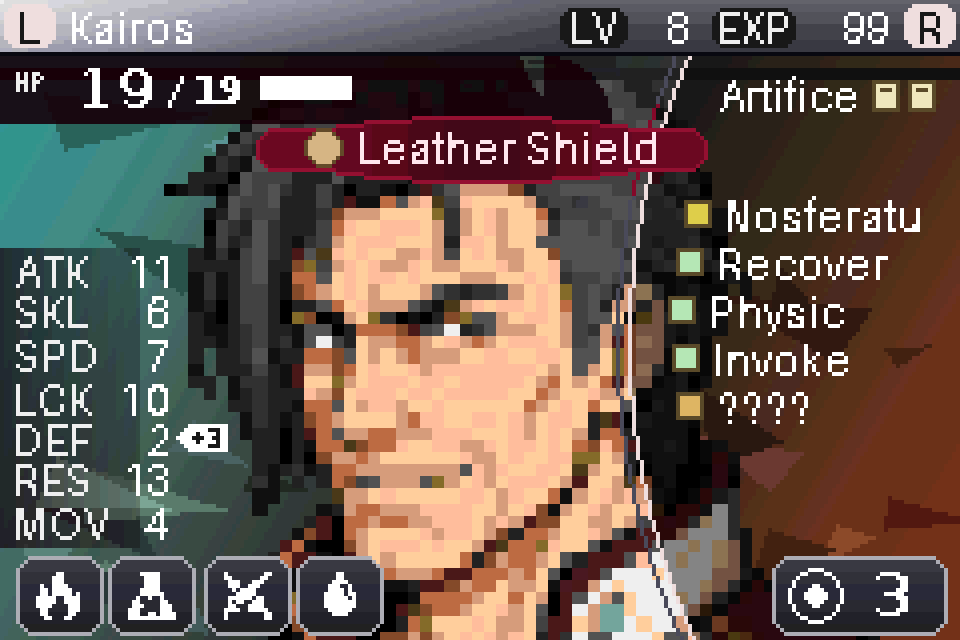
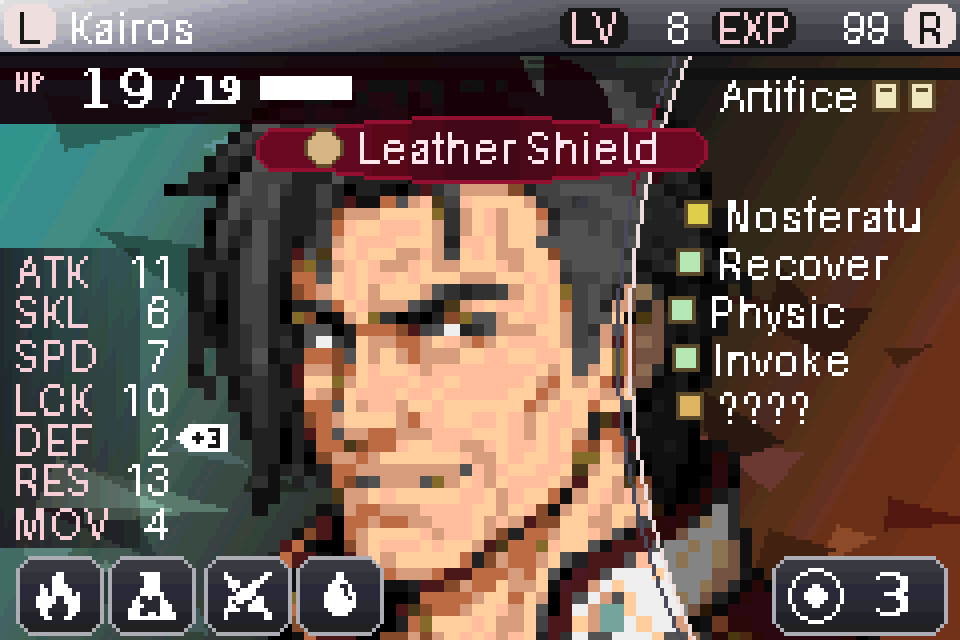
Recoloreo conserva el color original de etiquetas y texto del arma
Claude-Session: https://claude.ai/code/session_01C4QAM7MwvCQVjJLG12SBSt

diff --git a/gba_status/recolorear.py b/gba_status/recolorear.py
@@ -10,6 +10,7 @@ run(); run(SIN_RETRATO="1", SIN_ICONOS="1"); run(FONDO="negro")
 full = Image.open(f"estado_gba{sf}.png").convert("RGB"); ui = Image.open(f"estado_gba_sin_retrato_sin_iconos{sf}.png").convert("RGB")
 negro = Image.open("estado_gba_negro.png").convert("RGB")  # para saber que pixeles dependen del fondo
 W, H = full.size
+TEXTOS_FIJOS = {(247, 206, 214), (255, 231, 239)}  # etiquetas (HP, ATK, LV...) y texto del arma
 q5 = lambda v: (int(v) >> 3) << 3 | (int(v) >> 5)
 lum = lambda p: (p[0] * 299 + p[1] * 587 + p[2] * 114) / 1000
 uis = [ui.getpixel((x, y)) for y in range(H) for x in range(W)]
@@ -26,7 +27,7 @@ for nombre in (sys.argv[1:] or TEMAS):
                 p, u = full.getpixel((x, y)), ui.getpixel((x, y))
                 if p != u: continue                       # retrato o icono: no se toca
                 if FONDO != "luz" and p != negro.getpixel((x, y)): continue  # fondo o translucido: se deja
-                if min(p) > 200 and max(p) - min(p) < 40: continue  # blancos fijos
+                if (min(p) > 200 and max(p) - min(p) < 40) or p in TEXTOS_FIJOS: continue  # blancos y textos claros fijos
                 st = next((r for (x0, y0, x1, y1), r in ZONAS.get(nombre, []) if x0 <= x <= x1 and y0 <= y <= y1), stops)
                 out.putpixel((x, y), rampa(st, (lum(p) - lo) / (hi - lo)))
     out.save(f"tema_{nombre}{sf}.png"); out.resize((W * 4, H * 4), Image.NEAREST).save(f"tema_{nombre}{sf}_x4.png")
